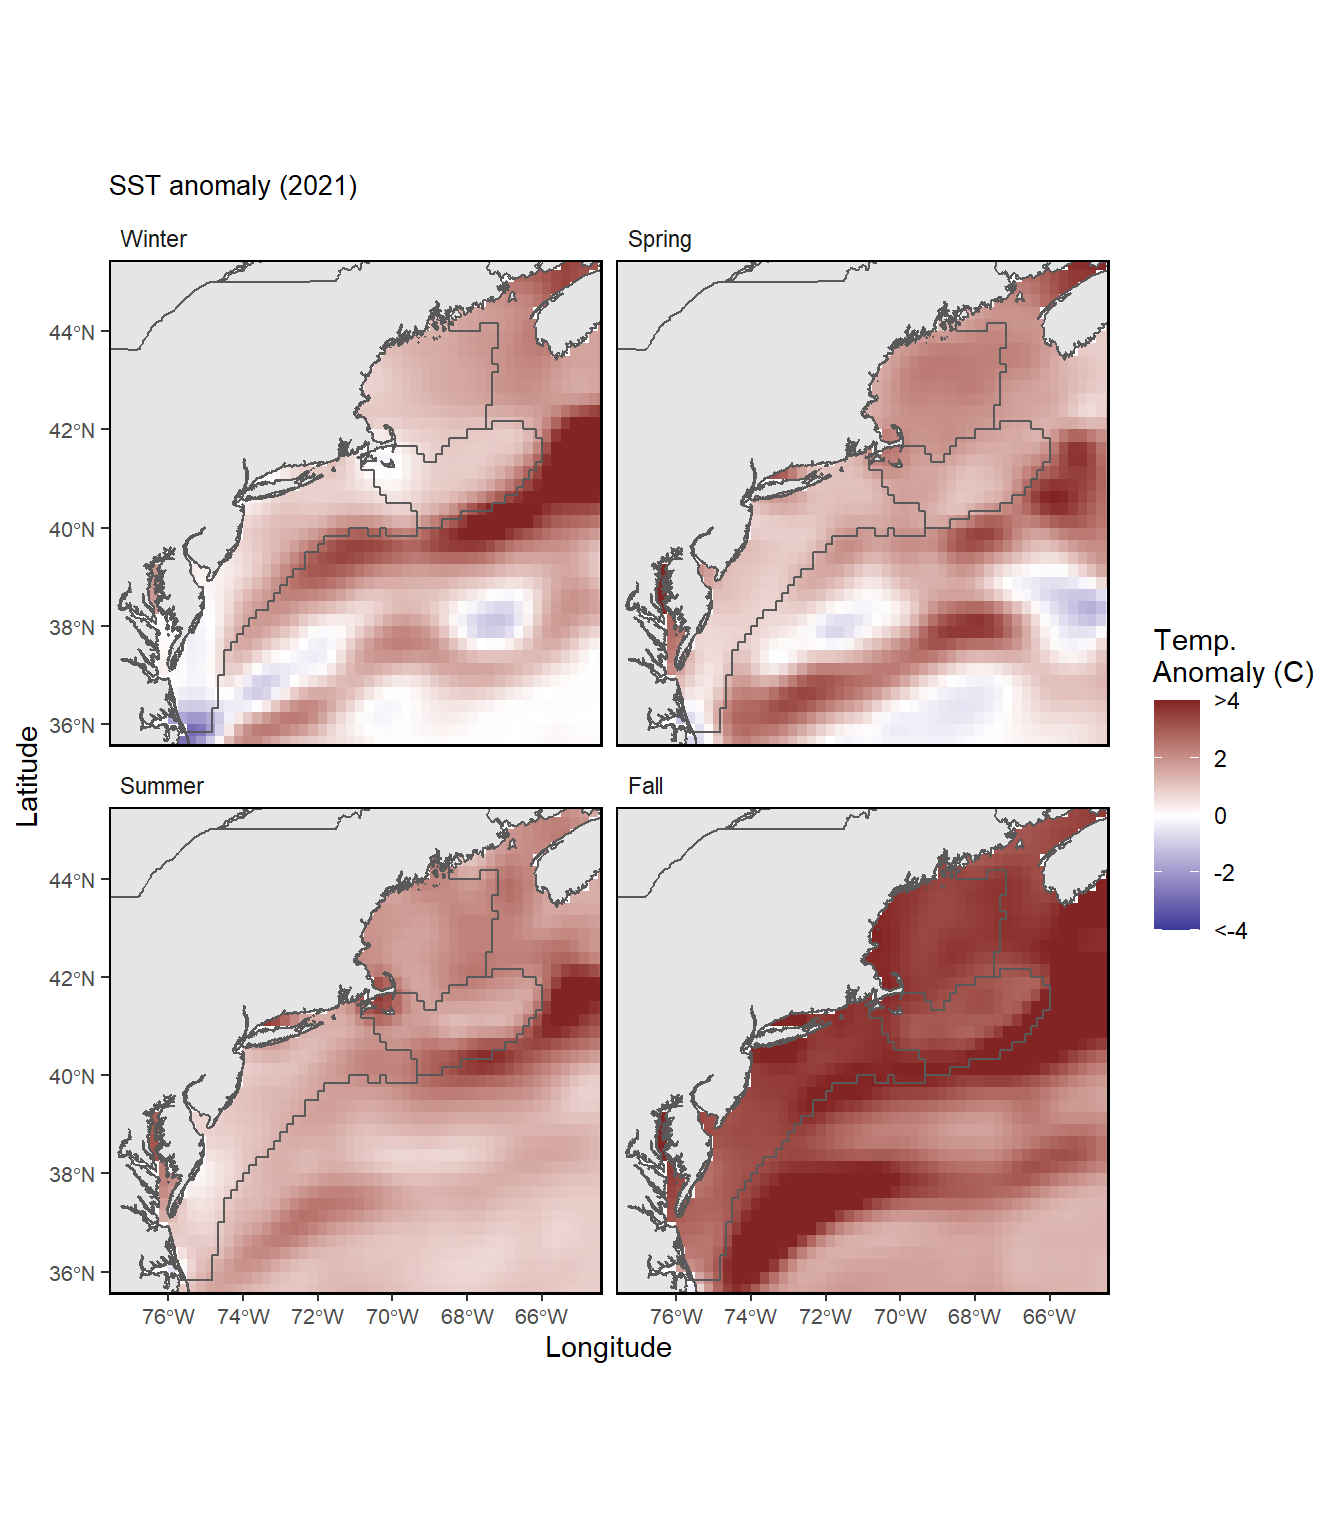
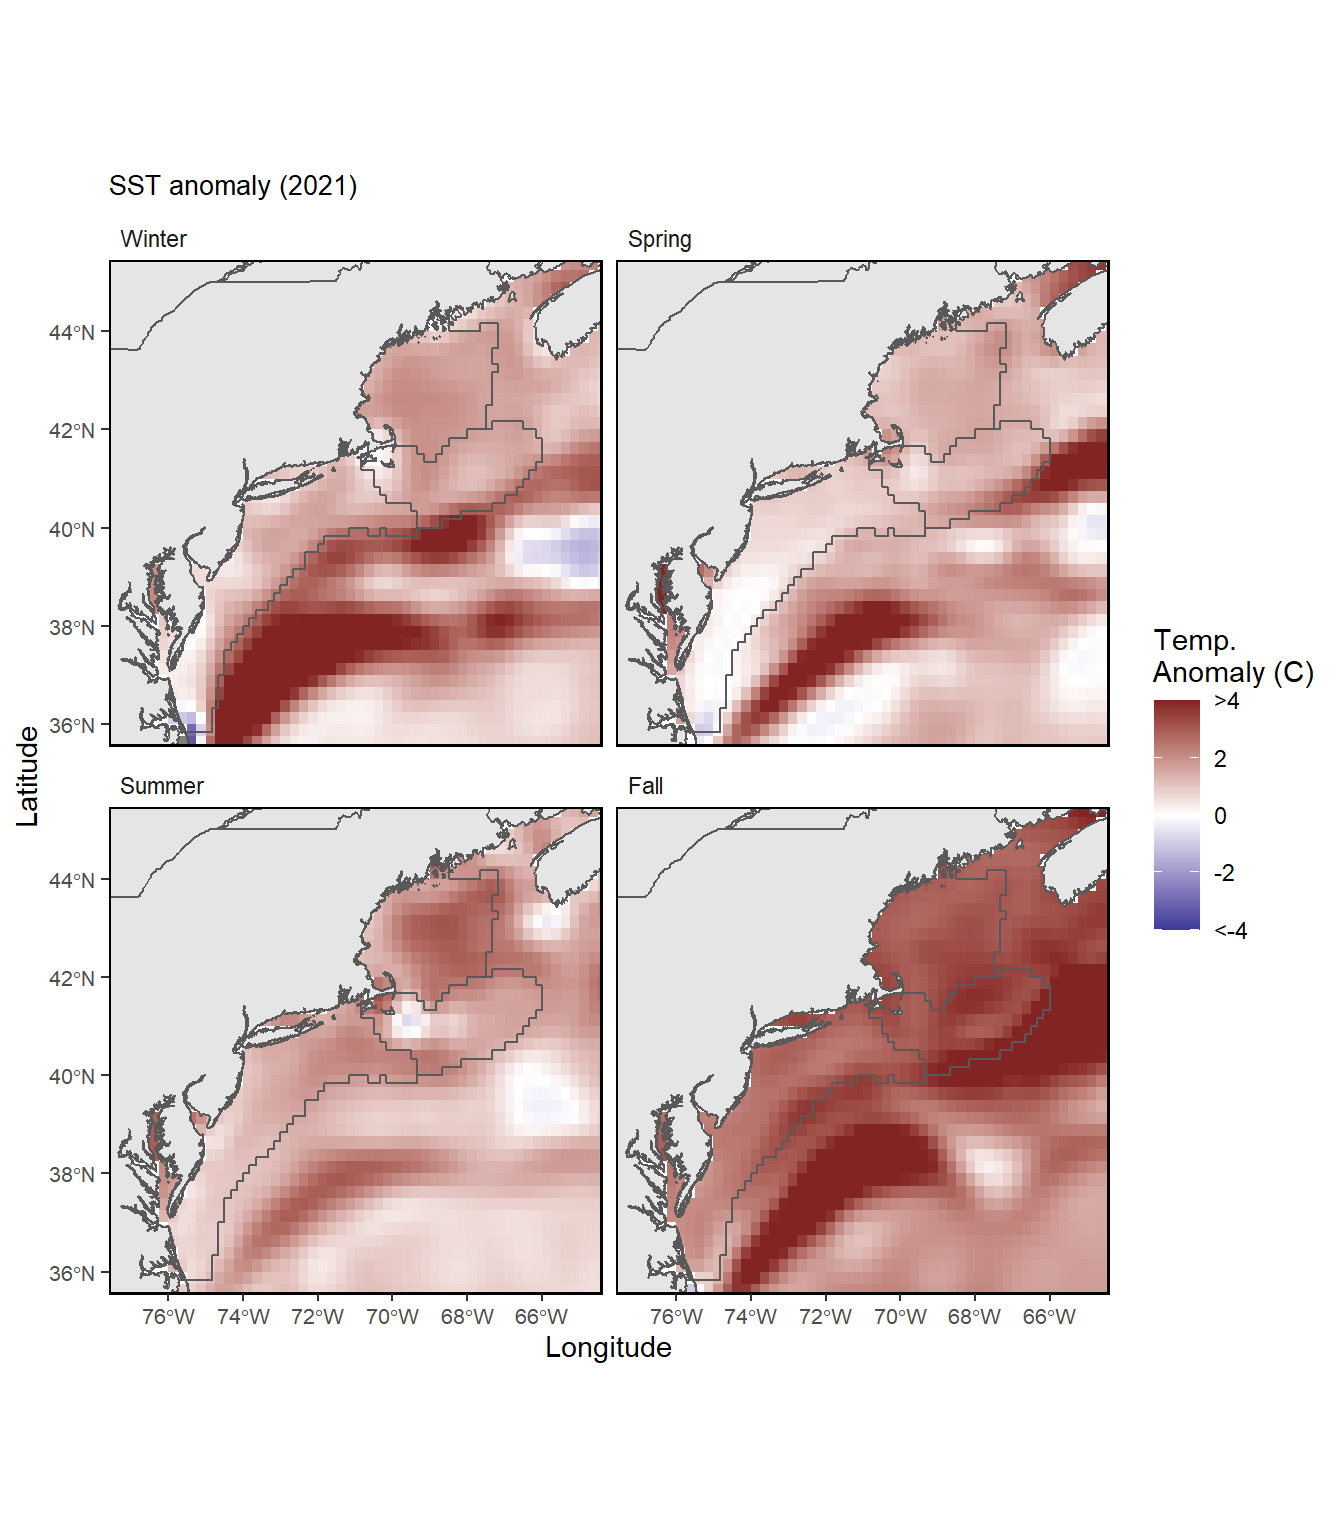
update sst gridded

diff --git a/docs/LTL_MAB.html b/docs/LTL_MAB.html
@@ -249,9 +249,9 @@ div.tocify {
 <div id="sst" class="section level4">
 <h4>SST</h4>
 <div class="figure" style="text-align: center">
-<img src="LTL_MAB_files/figure-html/seasonal-sst-anom-gridded-1.png" alt="MAB-seasonal sea surface temperature time series overlaid onto 2021 seasonal spatial anomalies." width="672" />
+<img src="LTL_MAB_files/figure-html/seasonal-sst-anom-gridded-1.png" alt="MAB-seasonal sea surface temperature time series overlaid onto 2022 seasonal spatial anomalies." width="672" />
 <p class="caption">
-MAB-seasonal sea surface temperature time series overlaid onto 2021 seasonal spatial anomalies.
+MAB-seasonal sea surface temperature time series overlaid onto 2022 seasonal spatial anomalies.
 </p>
 </div>
 </div>

diff --git a/docs/LTL_NE.html b/docs/LTL_NE.html
@@ -249,9 +249,9 @@ div.tocify {
 <div id="sst" class="section level4">
 <h4>SST</h4>
 <div class="figure" style="text-align: center">
-<img src="LTL_NE_files/figure-html/seasonal-sst-anomaly-gridded-1.png" alt="GB and GOM 2020 seasonal sea surface temperature spatial anomalies. " width="768" />
+<img src="LTL_NE_files/figure-html/seasonal-sst-anomaly-gridded-1.png" alt="GB and GOM 2022 seasonal sea surface temperature spatial anomalies. " width="768" />
 <p class="caption">
-GB and GOM 2020 seasonal sea surface temperature spatial anomalies.
+GB and GOM 2022 seasonal sea surface temperature spatial anomalies.
 </p>
 </div>
 <div class="figure" style="text-align: center">
